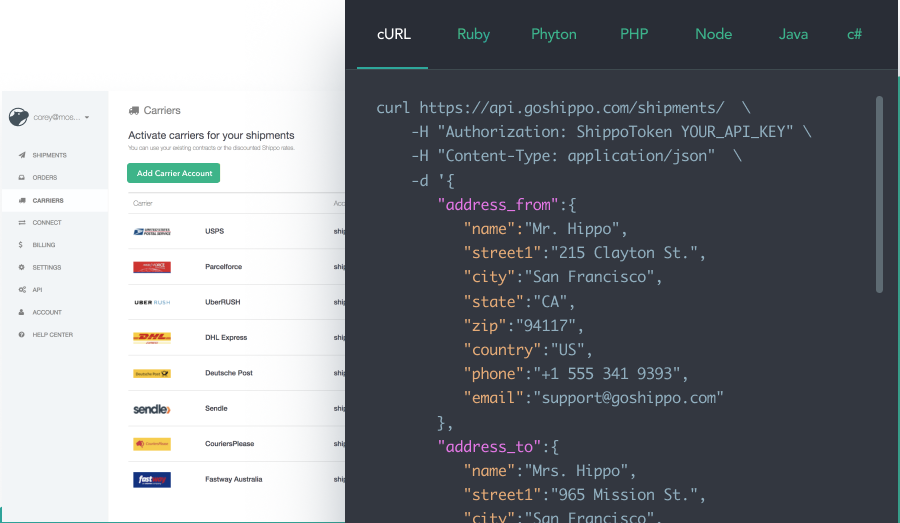
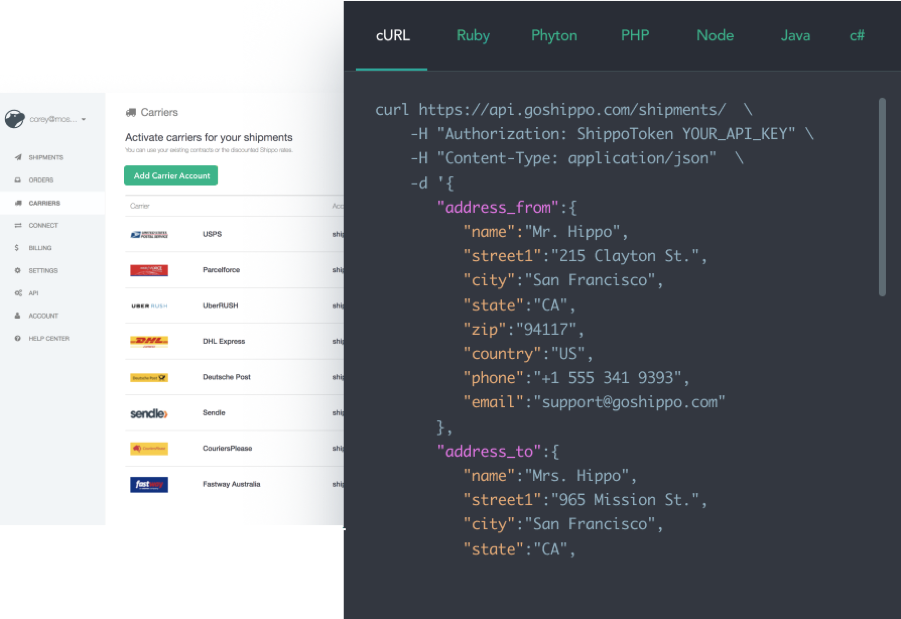
adding global feature

diff --git a/css/stylesheet.css b/css/stylesheet.css
@@ -194,14 +194,25 @@
     API Feature
 ***********************/
 #api-feature {
-  border: 2px solid red;
   height: 600px;
   padding: 30px; }
+  @media (max-width: 576px) {
+    #api-feature {
+      padding: 20px; } }
   #api-feature .wrapper {
-    max-width: 1250px;
+    max-width: 1650px;
     width: 100%;
     padding-left: 15px;
     padding-right: 15px; }
+    @media (max-width: 576px) {
+      #api-feature .wrapper {
+        padding: 0; } }
+  @media (max-width: 768px) {
+    #api-feature .shipping-msg {
+      margin-bottom: 20px; } }
+  @media (max-width: 576px) {
+    #api-feature .shipping-msg {
+      padding-left: 40px; } }
   #api-feature h4 {
     font-weight: 300;
     font-size: 29px;
@@ -228,5 +239,44 @@
     text-decoration: underline;
     color: #62bcbf;
     font-size: 17px; }
+  #api-feature .shippo-large {
+    z-index: 10000; }
+    @media (max-width: 1000px) {
+      #api-feature .shippo-large {
+        display: none; } }
+  #api-feature .shippo-hide {
+    display: none; }
+    @media (max-width: 1000px) {
+      #api-feature .shippo-hide {
+        display: flex; } }
+    @media (max-width: 576px) {
+      #api-feature .shippo-hide {
+        display: none; } }
+  #api-feature .iphone-x {
+    display: none;
+    padding: 0; }
+    @media (max-width: 576px) {
+      #api-feature .iphone-x {
+        display: flex; } }
+
+/**********************
+    Global Feature
+***********************/
+#global-feature {
+  height: 600px;
+  background-image: linear-gradient(to right top, #14b1c1, #00b1b3, #00b0a0, #00ae8a, #10ab70);
+  position: relative; }
+  #global-feature::before {
+    content: '';
+    position: absolute;
+    left: 0;
+    top: 415px;
+    width: 100%;
+    transform: skewy(-4deg);
+    background-image: linear-gradient(to bottom right, #14b1c1, #00b1b3, #00b0a0, #00AE8C, #10ab70);
+    height: 146px;
+    top: -118px;
+    transform: skewy(-7deg);
+    height: 236px; }
 
 /*# sourceMappingURL=stylesheet.css.map */

diff --git a/scss/stylesheet.scss b/scss/stylesheet.scss
@@ -320,15 +320,31 @@ nav .container{
 ***********************/
 
 #api-feature{
-  border: 2px solid red;
   height: 600px;
   padding: 30px;
 
+  @media(max-width: $breakpoint-phone){
+    padding: 20px;
+  }
+
   .wrapper{
-    max-width: 1250px;
+    max-width: 1650px;
     width: 100%;
     padding-left: 15px;
     padding-right: 15px;
+
+    @media(max-width: $breakpoint-phone){
+      padding: 0;
+    }
+  }
+  .shipping-msg{
+    @media(max-width: $breakpoint-tablet){
+      margin-bottom: 20px;
+    }
+    @media(max-width: $breakpoint-phone){
+      padding-left: 40px;
+    }
+
   }
 
   h4{
@@ -366,4 +382,53 @@ nav .container{
     font-size: 17px;
   }
 
+  .shippo-large{
+    z-index: 10000;
+    @media(max-width: 1000px){
+      display: none;
+    }
+  }
+
+  .shippo-hide{
+    display: none;
+    @media(max-width: 1000px){
+      display:flex;
+    }
+    @media(max-width: $breakpoint-phone){
+      display: none;
+    }
+  }
+
+  .iphone-x{
+    display: none;
+    padding: 0;
+    @media(max-width: $breakpoint-phone){
+      display: flex;
+    }
+  }
+
+
+
 } // Closing API Feature
+
+
+
+/**********************
+    Global Feature
+***********************/
+
+
+#global-feature{
+  height: 600px;
+  background-image: linear-gradient(to right top, #14b1c1, #00b1b3, #00b0a0, #00ae8a, #10ab70);
+  position: relative;
+
+  &::before{
+     @include skewedEffect{
+       top: -118px;
+       transform: skewy(-7deg);
+       height: 236px;
+     }
+  }
+
+} // Closing Global Feature

diff --git a/index.html b/index.html
@@ -112,19 +112,26 @@
     <section id="api-feature">
         <div class="wrapper">
         <div class="row">
-          <div class="col-sm-5">
+          <div class="shipping-msg col-sm-12 col-md-4">
             <h4>Two ways to ship with shippo</h4>
             <p>Use our web app to print labels in minutes, or connect with our API to customize your solution.
             We're here for you no matter how you choose to use our platform</p>
             <ul>
             <button class="btn btn-green">Get started with shippo today</button>
-            <a>Read our API docs</a>
+            <span><a>Read our API docs</a></span>
             </ul>
           </div>
 
-            <img class=" col-sm-7 img-fluid" src="images/shippo-larger.png">
+            <img class=" shippo-large col-sm-7 offset-md-1 img-fluid" src="images/shippo-larger.png">
+            <img class="shippo-hide col-sm col-md-7 img-fluid" src="images/shippo-half.png">
+            <img class=" iphone-x col-md-7 img-fluid" src="images/Iphone-x.png">
+        </div>
         </div>
       </div>
+    </section>
+
+    <section id="global-feature">
+      
     </section>
 
 
